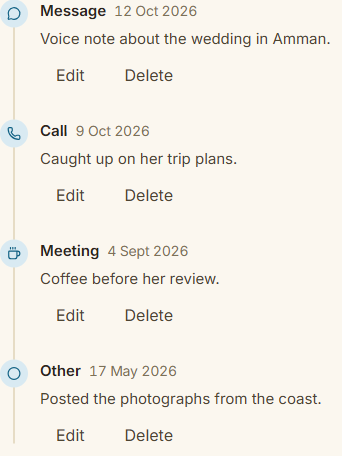
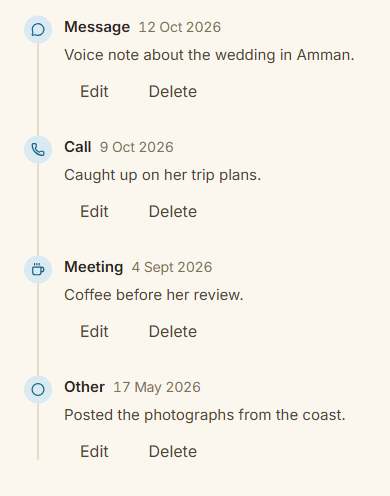
Give the landing page cards room around their content (#11)
The composites were cropped to the exact element boxes, so six of the seven
had content sitting flush against the card border: the timeline dots, the
"Details" labels and values, the labels chips, and the reminder rows all
started at pixel zero.

Re-cropped every composite with the app's canvas included (24px on the sides,
15 to 40px top and bottom), tightened the timeline card so it is not half
empty space, and ended the contact list on its last full row instead of
mid-row. The cards now carry 17 to 55px between the border and the first
pixel of ink.

diff --git a/apps/web/src/pages/landing.tsx b/apps/web/src/pages/landing.tsx
@@ -114,10 +114,10 @@ export function LandingPage() {
             <ContactSheet
               alt="A timeline thread of calls, messages, a meeting, and a note"
               className="mx-auto w-full max-w-[342px]"
-              height={456}
+              height={496}
               loading="lazy"
               src={contactThreadMobile}
-              width={342}
+              width={390}
             />
           </div>
           <div className="hidden lg:block">
@@ -125,7 +125,7 @@ export function LandingPage() {
               <PaperStack className="w-full">
                 <ContactSheet
                   alt="The contact list in Memoir, with the days since you talked"
-                  height={560}
+                  height={577}
                   loading="lazy"
                   src={contactsList}
                   width={576}
@@ -133,11 +133,11 @@ export function LandingPage() {
               </PaperStack>
               <ContactSheet
                 alt="A timeline thread: calls, messages, a meeting, and a note"
-                className="w-full max-w-[548px] self-end"
-                height={456}
+                className="w-full max-w-[409px] self-end"
+                height={496}
                 loading="lazy"
                 src={contactThread}
-                width={548}
+                width={409}
               />
             </div>
           </div>
@@ -153,19 +153,19 @@ export function LandingPage() {
               <ContactSheet
                 alt="A timeline thread of calls, messages, a meeting, and a note"
                 className="mx-auto w-full max-w-[342px]"
-                height={456}
+                height={496}
                 loading="lazy"
                 src={contactThreadMobile}
-                width={342}
+                width={390}
               />
             </div>
             <ContactSheet
               alt="A timeline thread of calls, messages, a meeting, and a note"
-              className="hidden w-full max-w-[548px] md:block"
-              height={456}
+              className="hidden w-full max-w-[409px] md:block"
+              height={496}
               loading="lazy"
               src={contactThread}
-              width={548}
+              width={409}
             />
           </Feature>
         </div>
@@ -179,18 +179,18 @@ export function LandingPage() {
           <div className="flex flex-col items-center gap-6 sm:flex-row sm:items-start sm:gap-4">
             <ContactSheet
               alt="A contact's details, including birthday, how you met, and custom fields"
-              height={800}
+              height={840}
               loading="lazy"
               src={contactDetails}
-              width={260}
+              width={308}
             />
             <ContactSheet
               alt="Labels applied to a contact"
               className="sm:mt-16 sm:-rotate-[0.6deg]"
-              height={257}
+              height={297}
               loading="lazy"
               src={contactLabels}
-              width={260}
+              width={308}
             />
           </div>
         </Feature>
@@ -205,19 +205,19 @@ export function LandingPage() {
               <ContactSheet
                 alt="Overdue and due reminders, each naming the contact"
                 className="mx-auto w-full max-w-[342px]"
-                height={440}
+                height={447}
                 loading="lazy"
                 src={remindersDueMobile}
-                width={342}
+                width={390}
               />
             </div>
             <ContactSheet
               alt="Overdue and due reminders, each naming the contact"
               className="hidden w-full max-w-[576px] md:block"
-              height={390}
+              height={400}
               loading="lazy"
               src={remindersDue}
-              width={720}
+              width={768}
             />
           </Feature>
         </div>
